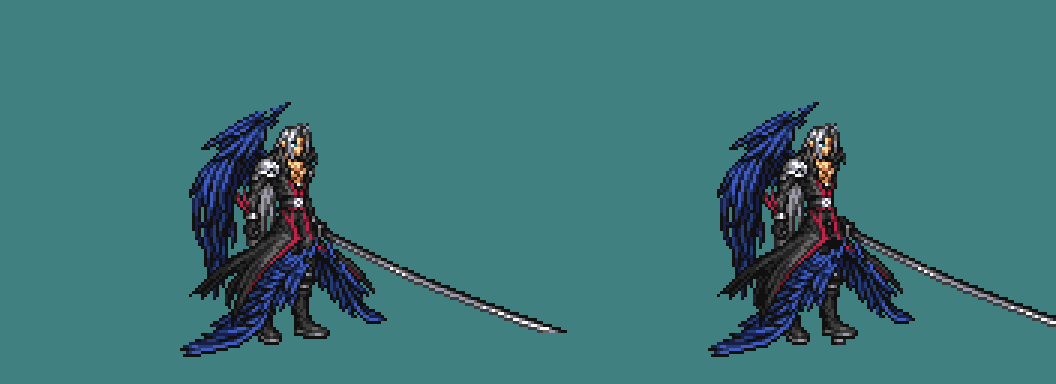
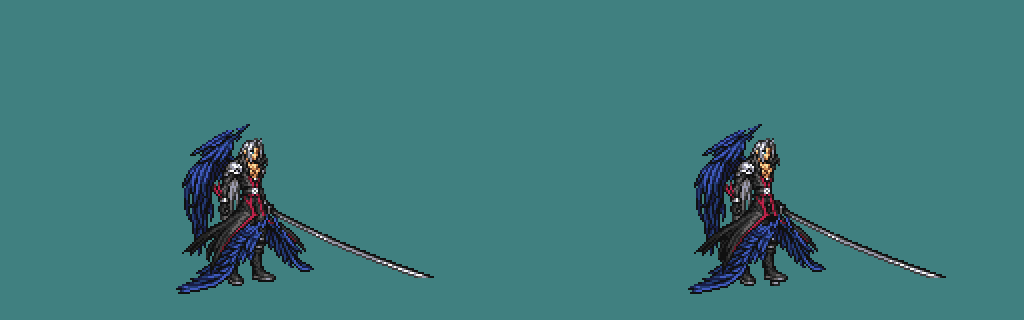
Give the Sephiroth rig a body that moves and a set of eleven animations
More bones (chest, arm, the wing in two parts, each leg), movement of
the whole figure, the blade's sweep drawn behind it, and a few effects
in the sheet's own colours. Walk, dash, a wide cut, a thrust, a rising
cut, a rush of cuts, a plunge, a dark spell and a counter.

Changed region(s): [[0.1562, 0.25, 0.5312, 0.9375], [0.6562, 0.25, 1.0, 0.9375]]

diff --git a/tools/rogue_rig.py b/tools/rogue_rig.py
@@ -16,28 +16,37 @@ import math
 from pathlib import Path
 
 import numpy as np
-from PIL import Image
+from PIL import Image, ImageDraw
 
 ROOT = Path(__file__).resolve().parents[1]
 SHEET = ROOT / "mod_assets/sephiroth_ffrk.png"
 OUT = ROOT / "mod_assets/sephiroth"
-CELL = (176, 128)
-ORIGIN = (60, 34)  # where the whole figure's top left corner goes in a cell
+CELL = (256, 160)
+ORIGIN = (88, 62)  # where the whole figure's top left corner goes in a cell
 BACKGROUND = (64, 128, 128)
+SWORD_HILT = (41, 40)  # the two ends of the blade on the whole figure, for its trail
+SWORD_TIP = (128, 76)
 
 # The bones: the pieces each carries, by their number on the sheet read in
 # rows, and the pivot it turns on, in the whole figure's own coordinates.
 BONES = {
-    "wing": ([1, 12, 11, 48, 20, 8, 2, 4, 13], (27, 22)),
+    "wing_low": ([48, 20, 8, 2, 4, 13], (26, 24)),
+    "wing_up": ([1, 12, 11], (27, 22)),
     "tail": ([31, 15, 45, 40, 37, 38, 10, 41, 26, 39, 6, 36, 47, 5, 18, 3, 23, 25], (30, 44)),
+    "leg_far": ([19], (28, 62)),
+    "leg_near": ([43, 29], (40, 56)),
     "skirt": ([14, 27, 7, 9, 51, 42, 53, 32, 46, 52], (40, 44)),
-    "legs": ([43, 29, 19], (36, 60)),
-    "body": ([16, 34, 49, 35, 33, 44, 30, 22, 21, 50, 17, 24], (36, 44)),
+    "hips": ([49, 35, 33, 24], (36, 46)),
+    "chest": ([16, 34, 44], (37, 36)),
+    "arm": ([30, 22, 21, 50, 17], (27, 24)),
     "head": ([28], (38, 17)),
-    "sword": ([0], (41, 40)),
+    "sword": ([0], SWORD_HILT),
 }
-# What turns with what: a bone not listed turns with the whole figure only.
-PARENT = {"head": "body", "wing": "body", "sword": "body"}
+# What turns with what. Everything turns with "root", the whole figure, whose
+# pivot is between the feet.
+PARENT = {"chest": "hips", "head": "chest", "wing_up": "chest", "wing_low": "chest", "arm": "chest", "sword": "chest",
+          "tail": "hips", "skirt": "hips"}
+ROOT_PIVOT = (36, 84)
 
 REST = {}
 
@@ -48,26 +57,109 @@ def pose(**changes):
     return out
 
 
-# Each animation: (pose, sixtieths of a second to the next pose); it loops.
+def step(forward, **more):
+    """A stride: the near leg `forward` pixels ahead, the far one as far behind."""
+    return dict(leg_near=(forward * 2, forward, -abs(forward) // 3), leg_far=(-forward * 2, -forward, 0), **more)
+
+
+# Each animation: (pose, sixtieths of a second to the next pose) and, for some,
+# what else the frames from this pose show: "trail" the blade's sweep, "orb"
+# a ball of darkness at (x, y, radius), "ring" a shock on the ground at
+# (x, radius), "ward" the barrier of the counter at (x, y, size).
 # A pose gives a bone degrees, clockwise, or (degrees, x, y) to shift it too.
+# The figure faces right; the blade at rest points right and a little down, so
+# a turn of -114 stands it up and one of 66 points it at the ground.
 ANIMATIONS = {
-    # Standing: he breathes, the wing opens and closes, the coat stirs.
+    # Standing: he breathes with the chest, the wing opens and closes in two
+    # parts, the coat stirs after the body.
     "idle": [
-        (pose(), 24),
-        (pose(wing=-9, tail=4, skirt=-3, body=(0, 0, 1), sword=2), 24),
+        (pose(), 26),
+        (pose(chest=(2, 0, 1), head=-3, wing_up=-10, wing_low=-5, tail=4, skirt=-3, arm=4, sword=3), 26),
     ],
-    # The swing: the blade goes up and back, comes down across, and holds.
+    "walk": [
+        (pose(root=(0, 0, 0), chest=5, head=-3, wing_up=-4, wing_low=3, tail=5, skirt=-5, **step(5)), 10),
+        (pose(root=(0, 0, -1), chest=4, head=-3, wing_up=-8, wing_low=-2, tail=2, skirt=-2, **step(0)), 10),
+        (pose(root=(0, 0, 0), chest=5, head=-3, wing_up=-4, wing_low=3, tail=5, skirt=-5, **step(-5)), 10),
+        (pose(root=(0, 0, -1), chest=4, head=-3, wing_up=-8, wing_low=-2, tail=2, skirt=-2, **step(0)), 10),
+    ],
+    # The dash: low and forward, wing and coat streaming, blade trailing.
+    "dash": [
+        (pose(root=(8, 0, 3), chest=20, head=-16, wing_up=28, wing_low=36, tail=-22, skirt=-26, arm=30, sword=138, **step(9)), 6),
+        (pose(root=(9, 0, 2), chest=22, head=-17, wing_up=22, wing_low=30, tail=-17, skirt=-21, arm=34, sword=134, **step(-9)), 6),
+    ],
+    # A wide cut: up behind the head, down across, held low.
     "slash": [
-        (pose(sword=-95, body=(-4, 0, 0), wing=-14, head=-3), 10),
-        (pose(sword=-120, body=(-6, 0, 0), wing=-18, head=-4, tail=5), 6),
-        (pose(sword=35, body=(8, 2, 1), wing=10, head=4, tail=-8, skirt=6), 4),
-        (pose(sword=28, body=(6, 2, 1), wing=6, head=3, tail=-5, skirt=4), 12),
-        (pose(), 10),
+        (pose(chest=-10, head=4, sword=-118, wing_up=-16, wing_low=-10, arm=-10, tail=5, **step(-3)), 8, {}),
+        (pose(chest=-14, head=6, sword=-140, wing_up=-20, wing_low=-12, arm=-14, tail=7, **step(-4)), 4, {"trail": 1}),
+        (pose(root=(0, 6, 1), chest=20, head=-10, sword=44, wing_up=14, wing_low=20, arm=24, tail=-12, skirt=8, **step(7)), 3, {"trail": 1}),
+        (pose(root=(0, 6, 1), chest=17, head=-8, sword=38, wing_up=8, wing_low=12, arm=20, tail=-8, skirt=5, **step(7)), 12, {}),
+        (pose(), 8, {}),
     ],
-    # Hit: he rocks back.
+    # The thrust: drawn back, then the whole body behind the point.
+    "thrust": [
+        (pose(root=(0, -6, 0), chest=-16, head=8, sword=150, wing_up=-22, wing_low=-12, arm=-20, tail=8, **step(-5)), 12, {}),
+        (pose(root=(0, -8, 1), chest=-18, head=9, sword=156, wing_up=-26, wing_low=-14, arm=-22, tail=10, **step(-6)), 3, {"trail": 1}),
+        # (The blade turns with the chest and the whole body: -52 here is level.)
+        (pose(root=(4, 34, 2), chest=24, head=-16, sword=-52, wing_up=30, wing_low=40, arm=36, tail=-26, skirt=-18, **step(12)), 3,
+         {"trail": 1}),
+        (pose(root=(4, 36, 2), chest=22, head=-14, sword=-50, wing_up=20, wing_low=28, arm=30, tail=-18, skirt=-12, **step(12)), 14, {}),
+        (pose(), 10, {}),
+    ],
+    # A rising cut: from a crouch, the blade comes up in an arc and he with it.
+    "rise": [
+        (pose(root=(0, 0, 5), chest=18, head=-8, sword=70, wing_up=10, wing_low=16, tail=-8, **step(4)), 8, {}),
+        (pose(root=(0, 0, 6), chest=22, head=-10, sword=80, wing_up=12, wing_low=20, tail=-10, **step(5)), 3, {"trail": 1}),
+        (pose(root=(-6, 4, -22), chest=-16, head=8, sword=-150, wing_up=-34, wing_low=-24, arm=-30, tail=18, skirt=14, **step(-2)), 4,
+         {"trail": 1}),
+        (pose(root=(-8, 5, -30), chest=-20, head=10, sword=-170, wing_up=-40, wing_low=-28, arm=-34, tail=22, skirt=18, **step(-3)), 10,
+         {}),
+        (pose(root=(0, 4, -8), chest=6, sword=-20, wing_up=-20, wing_low=-10, tail=8), 8, {}),
+        (pose(), 6, {}),
+    ],
+    # Eight cuts in a rush: he goes forward a step with each pair.
+    "octaslash": [
+        (pose(root=(6, 0, 2), chest=16, head=-10, sword=-110, wing_up=20, wing_low=28, tail=-16, **step(8)), 4, {"trail": 1}),
+        (pose(root=(8, 8, 2), chest=24, head=-14, sword=50, wing_up=26, wing_low=34, tail=-20, **step(-8)), 3, {"trail": 1}),
+        (pose(root=(6, 16, 2), chest=10, head=-8, sword=-80, wing_up=20, wing_low=28, tail=-16, **step(8)), 3, {"trail": 1}),
+        (pose(root=(8, 24, 2), chest=26, head=-14, sword=64, wing_up=26, wing_low=34, tail=-20, **step(-8)), 3, {"trail": 1}),
+        (pose(root=(6, 32, 2), chest=8, head=-6, sword=-130, wing_up=20, wing_low=28, tail=-16, **step(8)), 3, {"trail": 1}),
+        (pose(root=(8, 40, 2), chest=28, head=-14, sword=30, wing_up=26, wing_low=34, tail=-20, **step(-8)), 3, {"trail": 1}),
+        (pose(root=(4, 44, 1), chest=18, head=-10, sword=20, wing_up=10, wing_low=16, tail=-10, **step(6)), 12, {}),
+        (pose(), 10, {}),
+    ],
+    # The plunge: he leaps, turns the point down and comes down on it.
+    "plunge": [
+        (pose(root=(0, 0, 5), chest=14, head=-6, sword=30, wing_up=8, wing_low=14, **step(3)), 6, {}),
+        (pose(root=(-4, 6, -36), chest=-12, head=6, sword=-70, wing_up=-42, wing_low=-30, arm=-30, tail=20, skirt=16,
+              leg_near=(-30, 2, -6), leg_far=(24, -2, -3)), 10, {}),
+        (pose(root=(0, 10, -40), chest=6, head=-4, sword=62, wing_up=-50, wing_low=-36, arm=10, tail=24, skirt=20,
+              leg_near=(-34, 2, -7), leg_far=(28, -2, -4)), 5, {"trail": 1}),
+        (pose(root=(4, 12, 2), chest=22, head=-12, sword=66, wing_up=18, wing_low=26, arm=20, tail=-14, skirt=-10, **step(4)), 4,
+         {"trail": 1, "ring": (150, 2)}),
+        (pose(root=(4, 12, 2), chest=20, head=-10, sword=66, wing_up=10, wing_low=16, arm=18, tail=-8, skirt=-6, **step(4)), 12,
+         {"ring": (150, 26)}),
+        (pose(), 10, {}),
+    ],
+    # The dark spell: the wing spreads, the hand comes up, the ball swells and goes.
+    "flare": [
+        (pose(chest=-6, head=3, wing_up=-30, wing_low=-18, arm=-70, sword=30, tail=6), 10, {"orb": (176, 84, 1)}),
+        (pose(chest=-9, head=5, wing_up=-44, wing_low=-28, arm=-96, sword=36, tail=9), 18, {"orb": (176, 82, 5)}),
+        (pose(chest=-10, head=5, wing_up=-48, wing_low=-30, arm=-100, sword=38, tail=10), 6, {"orb": (176, 80, 11)}),
+        (pose(root=(0, 3, 0), chest=14, head=-8, wing_up=10, wing_low=18, arm=-30, sword=20, tail=-8, skirt=6), 10, {"orb": (190, 82, 11)}),
+        (pose(root=(0, 3, 0), chest=10, head=-6, wing_up=4, wing_low=8, arm=-10, sword=10, tail=-4), 8, {"orb": (250, 84, 9)}),
+        (pose(), 8, {}),
+    ],
+    # The counter: the blade stood up before him, a ward of darkness around.
+    "counter": [
+        (pose(chest=-4, head=2, sword=-100, wing_up=-12, wing_low=-6, arm=-8), 6, {"ward": (150, 96, 4)}),
+        (pose(chest=-6, head=3, sword=-114, wing_up=-18, wing_low=-10, arm=-12), 20, {"ward": (150, 96, 30)}),
+        (pose(chest=-5, head=2, sword=-112, wing_up=-14, wing_low=-8, arm=-10), 6, {"ward": (150, 96, 34)}),
+        (pose(), 8, {}),
+    ],
+    # Hit: he rocks back, everything following late.
     "hurt": [
-        (pose(body=(-9, -3, 0), head=-8, wing=14, sword=-14, tail=-9, skirt=-9), 8),
-        (pose(body=(-4, -1, 0), head=-3, wing=6, sword=-6, tail=-4, skirt=-4), 10),
+        (pose(root=(-10, -5, 0), chest=-16, head=-12, wing_up=20, wing_low=28, sword=-24, tail=-12, skirt=-14, arm=-20, **step(-3)), 8),
+        (pose(root=(-5, -3, 0), chest=-8, head=-5, wing_up=10, wing_low=14, sword=-10, tail=-6, skirt=-7, arm=-8, **step(-2)), 12),
     ],
 }
 
@@ -127,6 +219,9 @@ class Rig:
         sheet = Image.open(SHEET)
         indices = np.array(sheet).astype(int)
         self.rgba = sheet.convert("RGBA")
+        flat_palette = sheet.getpalette()
+        used = sorted({int(v) for v in np.unique(np.array(sheet)) if np.array(self.rgba)[np.array(sheet) == v][:, 3].any()})
+        self.colours = [tuple(flat_palette[v * 3:v * 3 + 3]) for v in used]
         opaque = np.array(self.rgba)[:, :, 3] > 0
         self.pieces, self.whole = find_pieces(indices, opaque)
         self.placed = fit(indices, opaque, self.pieces, self.whole)
@@ -148,11 +243,13 @@ class Rig:
             chain.append(bone)
             bone = PARENT.get(bone)
 
+        chain.append("root")
+
         def apply(x, y):
             for name in chain:
                 value = pose_.get(name, 0)
                 angle, sx, sy = value if isinstance(value, tuple) else (value, 0, 0)
-                px, py = BONES[name][1]
+                px, py = ROOT_PIVOT if name == "root" else BONES[name][1]
                 cos, sin = math.cos(math.radians(angle)), math.sin(math.radians(angle))
                 dx, dy = x - px, y - py
                 x, y = px + dx * cos - dy * sin + sx, py + dx * sin + dy * cos + sy
@@ -192,6 +289,56 @@ class Rig:
                             frame.putpixel((cx, cy), pixel)
         return frame
 
+    def blade(self, pose_):
+        """Where the two ends of the blade are on the cell in a pose."""
+        apply = self.transform("sword", pose_)
+        return [(x + ORIGIN[0], y + ORIGIN[1]) for x, y in (apply(*SWORD_HILT), apply(*SWORD_TIP))]
+
+    def colour(self, wanted):
+        """The colour of the sheet's own palette nearest to one wanted."""
+        return min(self.colours, key=lambda c: sum((a - b) ** 2 for a, b in zip(c, wanted))) + (255,)
+
+
+def effects(rig, frame, pose_, before, extra):
+    """What a frame shows besides the figure, drawn in the figure's own colours."""
+    draw = ImageDraw.Draw(frame)
+    light, mid, dark = rig.colour((230, 240, 255)), rig.colour((60, 90, 200)), rig.colour((30, 30, 70))
+    if extra.get("trail") and before is not None:
+        # The blade's sweep: the ground between where it was and where it is,
+        # solid by the blade and thinning behind.
+        old, new = rig.blade(before), rig.blade(pose_)
+        under = Image.new("RGBA", frame.size, (0, 0, 0, 0))
+        ImageDraw.Draw(under).polygon([old[0], old[1], new[1], new[0]], fill=mid)
+        half = [((o[0] + n[0]) / 2, (o[1] + n[1]) / 2) for o, n in zip(old, new)]
+        ImageDraw.Draw(under).polygon([half[0], half[1], new[1], new[0]], fill=light)
+        pixels = under.load()
+        for y in range(frame.height):
+            for x in range(frame.width):
+                if pixels[x, y][3] and pixels[x, y] == mid and (x + y) & 1:
+                    pixels[x, y] = (0, 0, 0, 0)  # the older half is a checker
+        under.paste(frame, (0, 0), frame)
+        frame.paste(under, (0, 0))
+    if "orb" in extra:
+        x, y, radius = extra["orb"]
+        if radius >= 1:
+            draw.ellipse([x - radius, y - radius, x + radius, y + radius], fill=dark, outline=mid)
+            if radius >= 4:
+                draw.ellipse([x - radius // 2, y - radius // 2 - 1, x + radius // 3, y + radius // 3 - 1], fill=mid)
+                draw.point((x - radius // 3, y - radius // 3), fill=light)
+    if "ring" in extra:
+        x, radius = extra["ring"]
+        ground = ORIGIN[1] + ROOT_PIVOT[1]
+        if radius >= 2:
+            draw.ellipse([x - radius, ground - radius // 4, x + radius, ground + radius // 4], outline=light)
+            if radius >= 12:
+                draw.ellipse([x - radius + 3, ground - radius // 4 + 1, x + radius - 3, ground + radius // 4 - 1], outline=mid)
+    if "ward" in extra:
+        x, y, size = extra["ward"]
+        if size >= 3:
+            for k, colour in ((0, mid), (3, light)):
+                points = [(x + (size - k) * math.cos(math.radians(a)) * 0.8, y + (size - k) * math.sin(math.radians(a))) for a in range(0, 360, 60)]
+                draw.polygon(points, outline=colour)
+
 
 def between(a, b, t):
     out = {}
@@ -205,13 +352,28 @@ def between(a, b, t):
     return out
 
 
-def frames_of(rig, name, step=4):
+def frames_of(rig, name, every=3):
+    """The animation's frames, one every `every` sixtieths of a second."""
     keys = ANIMATIONS[name]
     out = []
-    for index, (pose_, length) in enumerate(keys):
-        following = keys[(index + 1) % len(keys)][0]
-        for i in range(0, length, step):
-            out.append(rig.draw(between(pose_, following, i / length)))
+    before = None
+    for index, key in enumerate(keys):
+        pose_, length = key[0], key[1]
+        extra = key[2] if len(key) > 2 else {}
+        following = keys[(index + 1) % len(keys)]
+        after = following[2] if len(following) > 2 else {}
+        for i in range(0, length, every):
+            t = i / length
+            now = between(pose_, following[0], t)
+            # What grows or moves does so along with the pose.
+            shown = dict(extra)
+            for kind in ("orb", "ring", "ward"):
+                if kind in extra and kind in after:
+                    shown[kind] = tuple(round(a + (b - a) * t) for a, b in zip(extra[kind], after[kind]))
+            frame = rig.draw(now)
+            effects(rig, frame, now, before, shown)
+            out.append(frame)
+            before = now
     return out
 
 
@@ -229,7 +391,7 @@ def main():
     compare = Image.new("RGB", (CELL[0] * 2, CELL[1]), BACKGROUND)
     compare.paste(whole, ORIGIN, whole)
     compare.paste(rest, (CELL[0], 0), rest)
-    compare.resize((compare.width * 3, compare.height * 3), Image.NEAREST).save(OUT / "rest.png")
+    compare.resize((compare.width * 2, compare.height * 2), Image.NEAREST).save(OUT / "rest.png")
     rows = {name: frames_of(rig, name) for name in ANIMATIONS}
     sheet = Image.new("RGB", (CELL[0] * max(len(r) for r in rows.values()), CELL[1] * len(rows)), BACKGROUND)
     for row, frames in enumerate(rows.values()):
@@ -237,8 +399,16 @@ def main():
             sheet.paste(flat(frame), (column * CELL[0], row * CELL[1]))
     sheet.save(OUT / "sheet.png")
     for name, frames in rows.items():
-        big = [flat(f).resize((CELL[0] * 3, CELL[1] * 3), Image.NEAREST) for f in frames]
-        big[0].save(OUT / f"{name}.gif", save_all=True, append_images=big[1:], duration=66, loop=0)
+        big = [flat(f).resize((CELL[0] * 2, CELL[1] * 2), Image.NEAREST) for f in frames]
+        big[0].save(OUT / f"{name}.gif", save_all=True, append_images=big[1:], duration=50, loop=0)
+    # One GIF with every animation in turn, its name over it, to look through.
+    reel = []
+    for name, frames in rows.items():
+        for frame in frames * (2 if len(frames) < 12 else 1):
+            image = flat(frame).resize((CELL[0] * 2, CELL[1] * 2), Image.NEAREST)
+            ImageDraw.Draw(image).text((8, 6), name, fill=(255, 255, 255))
+            reel.append(image)
+    reel[0].save(OUT / "preview.gif", save_all=True, append_images=reel[1:], duration=50, loop=0)
     print(f"wrote {OUT}: {', '.join(f'{name} {len(frames)}' for name, frames in rows.items())} frames")
 
 
